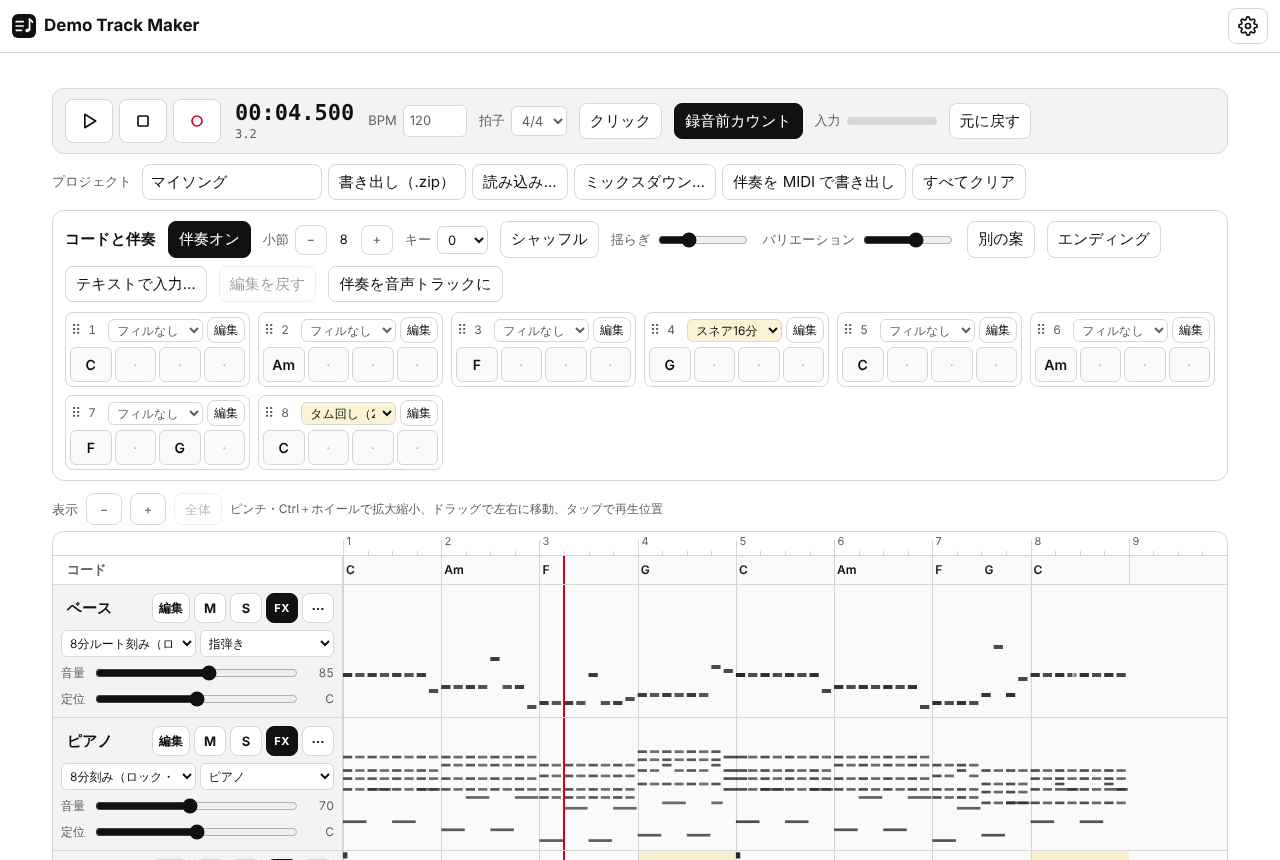
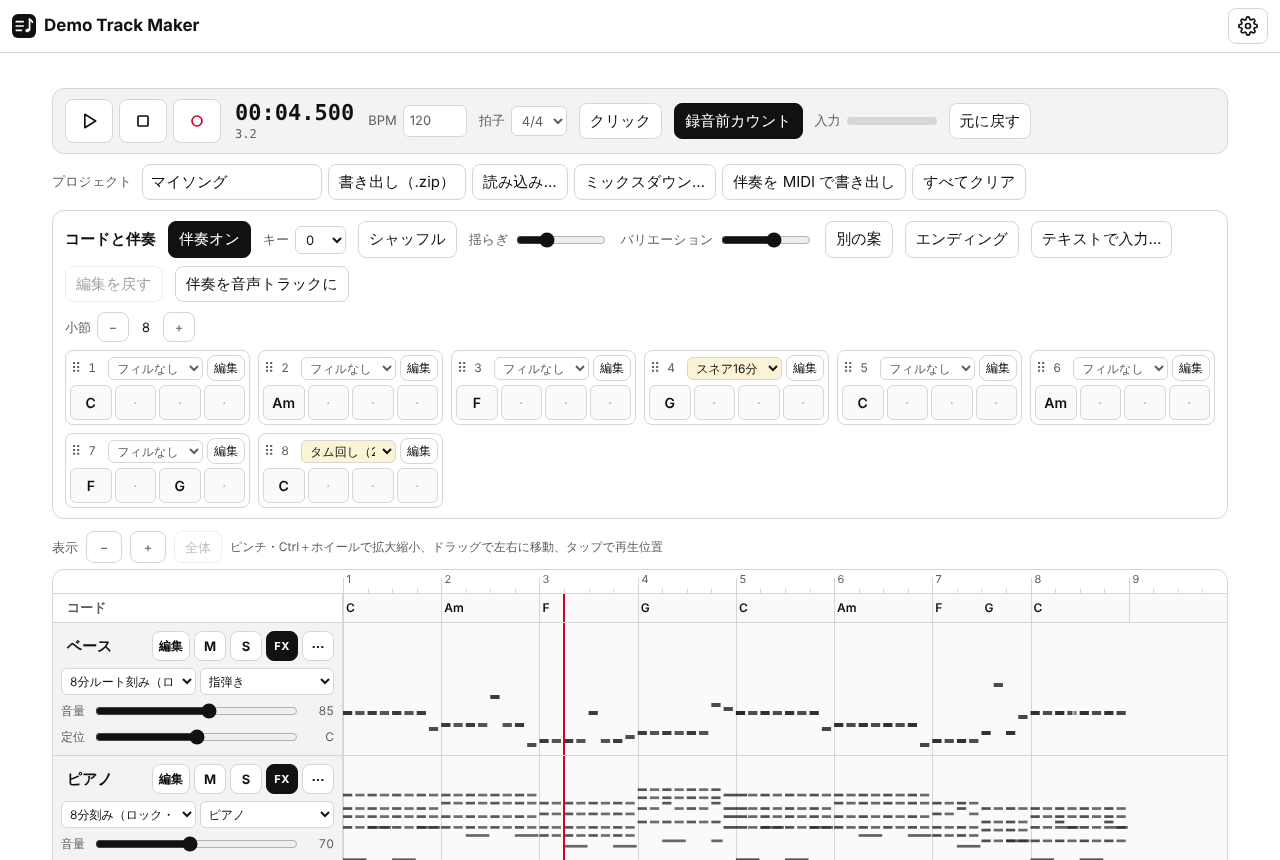
小節数の −／＋ をコード譜の直上に移す
Claude-Session: https://claude.ai/code/session_01FBcjAhXUUaPkW7J6793hey

diff --git a/public/demotrackmaker/ja/index.html b/public/demotrackmaker/ja/index.html
@@ -177,8 +177,9 @@
   .song-head select { padding: 4px 6px; border: 1px solid var(--line); border-radius: 6px; background: var(--bg); color: var(--fg); font-size: 13px; }
   .song-head output { min-width: 22px; text-align: center; font-variant-numeric: tabular-nums; color: var(--fg); }
   .song-head .sm { min-width: 32px; min-height: 30px; padding: 2px 8px; }
+  .bars-row { margin-top: 10px; } /* number of bars, right above the chord chart */
   #songBody.off { opacity: .45; }
-  .chord-grid { display: grid; grid-template-columns: repeat(auto-fill, minmax(165px, 1fr)); gap: 8px; margin-top: 10px; }
+  .chord-grid { display: grid; grid-template-columns: repeat(auto-fill, minmax(165px, 1fr)); gap: 8px; margin-top: 8px; }
   .cbar { border: 1px solid var(--line); border-radius: 8px; padding: 4px; background: var(--bg); min-width: 0; }
   .cbar.now { border-color: var(--fg); box-shadow: 0 0 0 1px var(--fg) inset; }
   .cbar { cursor: grab; -webkit-user-select: none; user-select: none; -webkit-touch-callout: none; }
@@ -334,8 +335,6 @@
     <div class="song-head">
       <h2 id="songTitle" data-i18n="song.title">コードと伴奏</h2>
       <button id="songOnBtn" class="toggle" aria-pressed="true" data-i18n="song.on">伴奏オン</button>
-      <label><span data-i18n="song.bars">小節</span>
-        <button id="barsMinus" class="sm" data-i18n-attr="aria-label:song.barsLess" aria-label="小節を減らす">−</button><output id="barsOut">8</output><button id="barsPlus" class="sm" data-i18n-attr="aria-label:song.barsMore" aria-label="小節を増やす">+</button></label>
       <label><span data-i18n="song.key">キー</span> <select id="songKey" data-i18n-attr="title:song.keyHelp" title="伴奏全体を半音単位で上げ下げします。入力したコードはそのままです。"></select></label>
       <button id="swingBtn" class="toggle" aria-pressed="false" data-i18n="song.swing" data-i18n-attr="title:song.swingHelp" title="裏拍の 8 分音符を後ろにずらし、3 連のノリにします（ブルース・ジャズ）">シャッフル</button>
       <label><span data-i18n="song.humanize">揺らぎ</span> <input id="humanize" type="range" min="0" max="1" step="0.05" value="0.3" /></label>
@@ -345,6 +344,10 @@
       <button id="chordTextBtn" data-i18n="song.text">テキストで入力…</button>
       <button class="songUndo" disabled data-i18n="song.undo">編集を戻す</button>
       <button id="bounceAllBtn" data-i18n="song.bounce">伴奏を音声トラックに</button>
+    </div>
+    <div class="song-head bars-row">
+      <label><span data-i18n="song.bars">小節</span>
+        <button id="barsMinus" class="sm" data-i18n-attr="aria-label:song.barsLess" aria-label="小節を減らす">−</button><output id="barsOut">8</output><button id="barsPlus" class="sm" data-i18n-attr="aria-label:song.barsMore" aria-label="小節を増やす">+</button></label>
     </div>
     <div id="songBody">
       <div id="chordGrid" class="chord-grid"></div>

diff --git a/public/demotrackmaker/index.html b/public/demotrackmaker/index.html
@@ -175,8 +175,9 @@
   .song-head select { padding: 4px 6px; border: 1px solid var(--line); border-radius: 6px; background: var(--bg); color: var(--fg); font-size: 13px; }
   .song-head output { min-width: 22px; text-align: center; font-variant-numeric: tabular-nums; color: var(--fg); }
   .song-head .sm { min-width: 32px; min-height: 30px; padding: 2px 8px; }
+  .bars-row { margin-top: 10px; } /* number of bars, right above the chord chart */
   #songBody.off { opacity: .45; }
-  .chord-grid { display: grid; grid-template-columns: repeat(auto-fill, minmax(165px, 1fr)); gap: 8px; margin-top: 10px; }
+  .chord-grid { display: grid; grid-template-columns: repeat(auto-fill, minmax(165px, 1fr)); gap: 8px; margin-top: 8px; }
   .cbar { border: 1px solid var(--line); border-radius: 8px; padding: 4px; background: var(--bg); min-width: 0; }
   .cbar.now { border-color: var(--fg); box-shadow: 0 0 0 1px var(--fg) inset; }
   .cbar { cursor: grab; -webkit-user-select: none; user-select: none; -webkit-touch-callout: none; }
@@ -332,8 +333,6 @@
     <div class="song-head">
       <h2 id="songTitle" data-i18n="song.title">Chords &amp; backing</h2>
       <button id="songOnBtn" class="toggle" aria-pressed="true" data-i18n="song.on">Backing on</button>
-      <label><span data-i18n="song.bars">Bars</span>
-        <button id="barsMinus" class="sm" data-i18n-attr="aria-label:song.barsLess" aria-label="Remove a bar">−</button><output id="barsOut">8</output><button id="barsPlus" class="sm" data-i18n-attr="aria-label:song.barsMore" aria-label="Add a bar">+</button></label>
       <label><span data-i18n="song.key">Key</span> <select id="songKey" data-i18n-attr="title:song.keyHelp" title="Moves the whole backing up or down in half steps. The chords you typed stay as they are."></select></label>
       <button id="swingBtn" class="toggle" aria-pressed="false" data-i18n="song.swing" data-i18n-attr="title:song.swingHelp" title="Plays the off-beat 8th notes late, in a triplet feel (blues, jazz)">Shuffle</button>
       <label><span data-i18n="song.humanize">Feel</span> <input id="humanize" type="range" min="0" max="1" step="0.05" value="0.3" /></label>
@@ -343,6 +342,10 @@
       <button id="chordTextBtn" data-i18n="song.text">Type as text…</button>
       <button class="songUndo" disabled data-i18n="song.undo">Undo edit</button>
       <button id="bounceAllBtn" data-i18n="song.bounce">Backing → audio track</button>
+    </div>
+    <div class="song-head bars-row">
+      <label><span data-i18n="song.bars">Bars</span>
+        <button id="barsMinus" class="sm" data-i18n-attr="aria-label:song.barsLess" aria-label="Remove a bar">−</button><output id="barsOut">8</output><button id="barsPlus" class="sm" data-i18n-attr="aria-label:song.barsMore" aria-label="Add a bar">+</button></label>
     </div>
     <div id="songBody">
       <div id="chordGrid" class="chord-grid"></div>

diff --git a/public/demotrackmaker/ja/guide/index.html b/public/demotrackmaker/ja/guide/index.html
@@ -209,7 +209,7 @@
 
 <h2 id="chords">コードの入力</h2>
 <figure class="shot">
-  <a href="/demotrackmaker/images/guide/ja-chords.png"><img src="/demotrackmaker/images/guide/ja-chords.png" alt="「コードと伴奏」の欄：伴奏のオン・オフ、小節数、キー、シャッフル・揺らぎ・バリエーション、別の案、エンディング、テキストで入力、8 小節のコード譜（4・8 小節目にフィル）。" width="1176" height="272" loading="lazy" decoding="async"></a>
+  <a href="/demotrackmaker/images/guide/ja-chords.png"><img src="/demotrackmaker/images/guide/ja-chords.png" alt="「コードと伴奏」の欄：伴奏のオン・オフ、小節数、キー、シャッフル・揺らぎ・バリエーション、別の案、エンディング、テキストで入力、8 小節のコード譜（4・8 小節目にフィル）。" width="1176" height="310" loading="lazy" decoding="async"></a>
   <figcaption>コード譜。小節ごとに 1 拍 1 マスの欄と、ドラムのフィルの選択があります。</figcaption>
 </figure>
 <ul>

diff --git a/public/demotrackmaker/guide/index.html b/public/demotrackmaker/guide/index.html
@@ -209,7 +209,7 @@
 
 <h2 id="chords">Typing the chords</h2>
 <figure class="shot">
-  <a href="/demotrackmaker/images/guide/en-chords.png"><img src="/demotrackmaker/images/guide/en-chords.png" alt="The Chords and backing panel: switches for the backing, the number of bars, key, shuffle, feel, variation, another take, ending, type as text, and eight bars of chords with a fill menu on bars 4 and 8." width="1176" height="272" loading="lazy" decoding="async"></a>
+  <a href="/demotrackmaker/images/guide/en-chords.png"><img src="/demotrackmaker/images/guide/en-chords.png" alt="The Chords and backing panel: switches for the backing, the number of bars, key, shuffle, feel, variation, another take, ending, type as text, and eight bars of chords with a fill menu on bars 4 and 8." width="1176" height="310" loading="lazy" decoding="async"></a>
   <figcaption>The chord chart. Each bar has one box per beat and a drum-fill menu.</figcaption>
 </figure>
 <ul>
